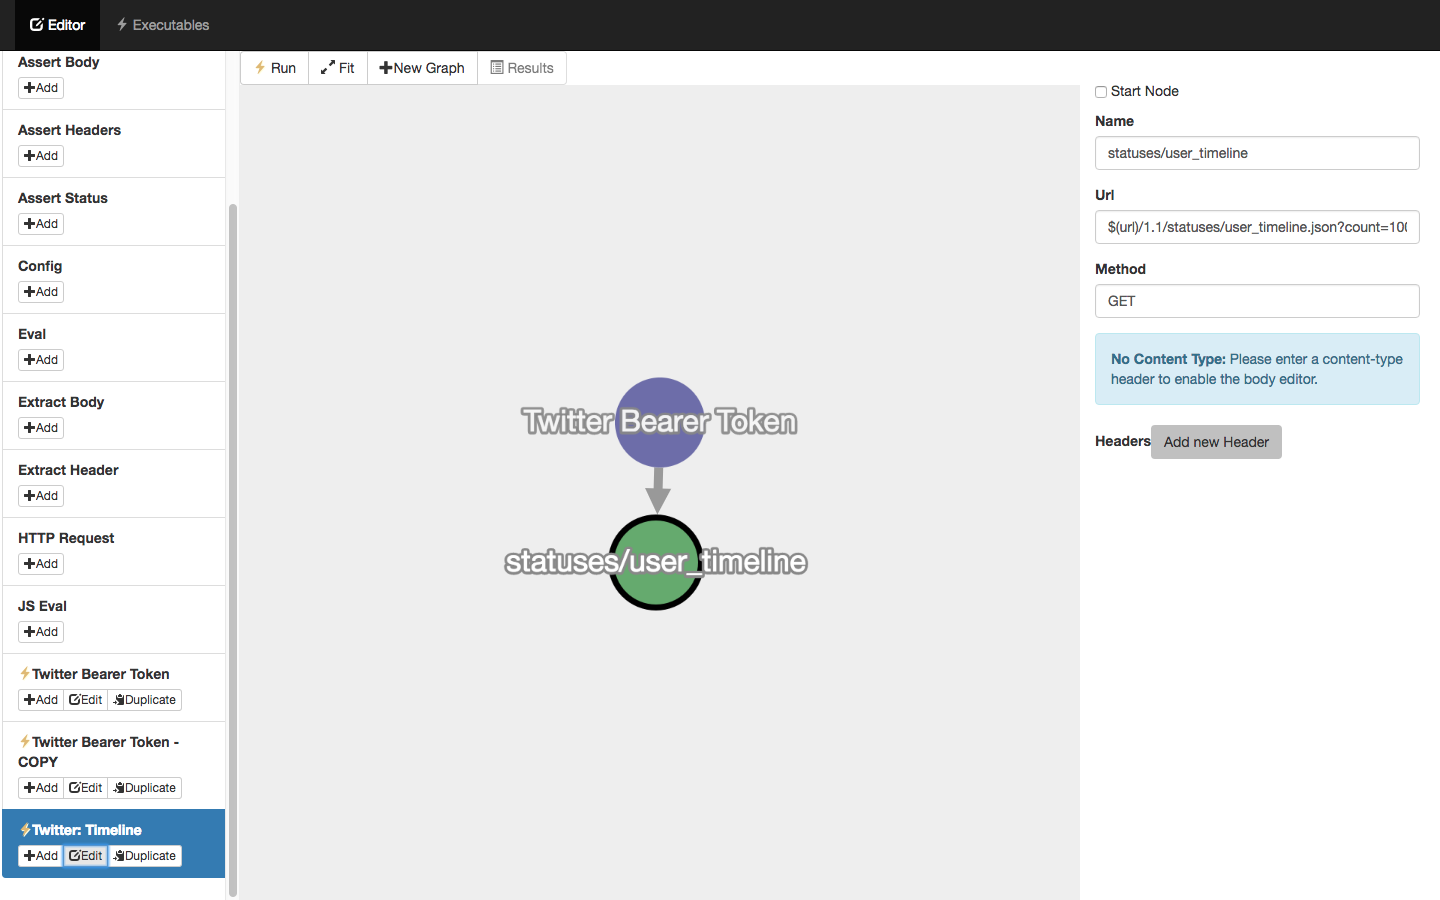
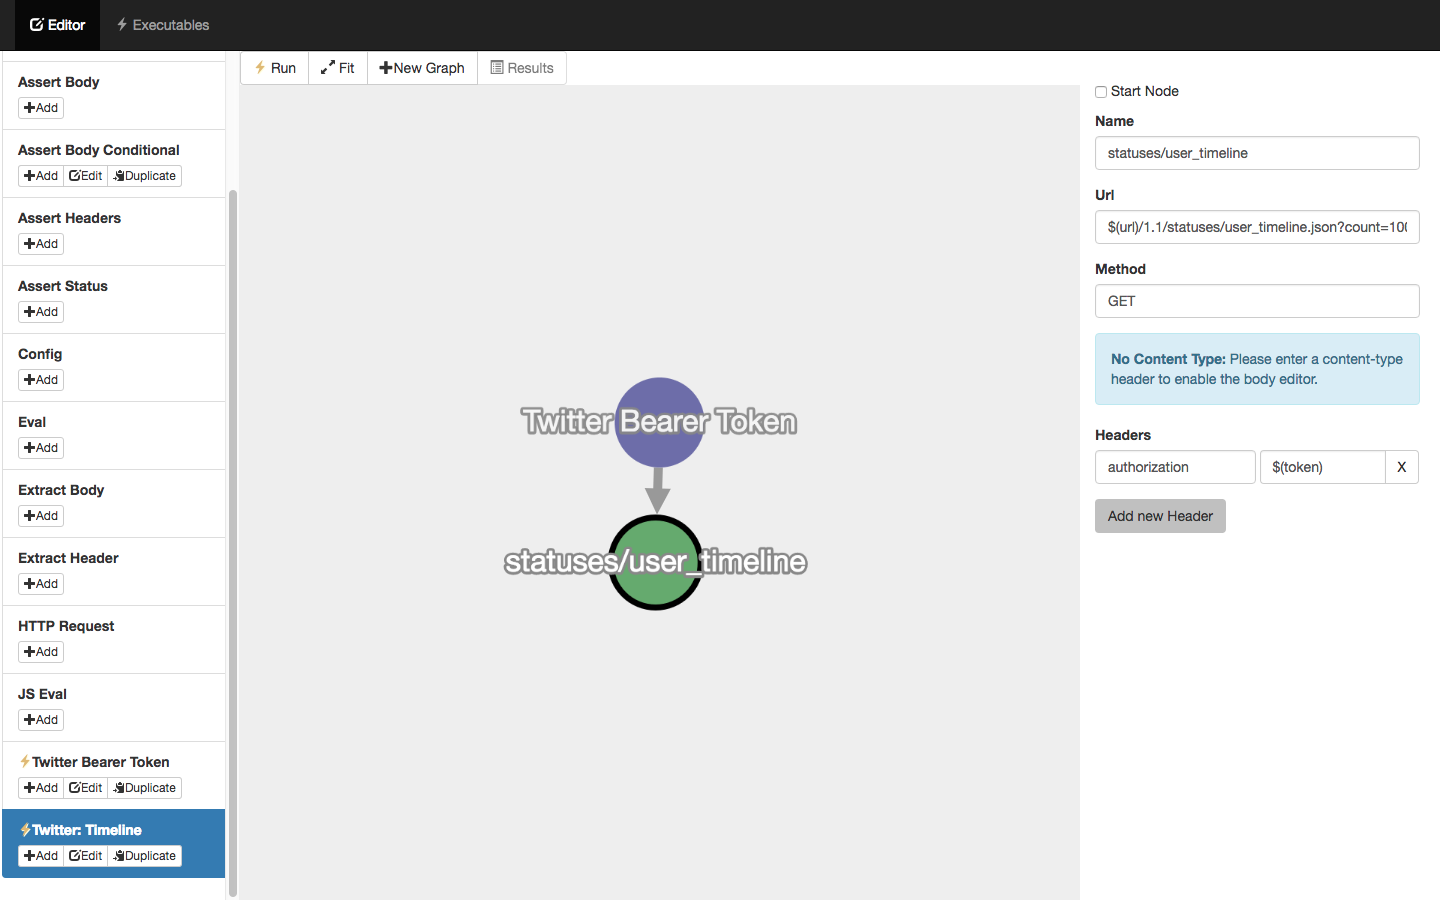
adding more docs

diff --git a/content/docs/extract-body-node.md b/content/docs/extract-body-node.md
@@ -1,0 +1,43 @@
++++
+description = "Description of the Extract Body Node"
+title = "Extract Body Node"
+date = "2017-05-21T12:24:08+01:00"
+draft = false
+weight = 80
+bref="The Extract Body node helps you to apply logic to the body of a HTTP Request/Response"
+toc = true
++++
+
+### Introduction ###
+The Extract Body node allow us to apply logic to the body of an HTTP Request/Response. This node has three parameters which are:
+
+* Name, label to assign a name for the node
+* Property Name, the variable that gets assigned the function return value
+* Function, where you define a function in the global namespace which takes the last request's body as argument and returns a value.  
+
+In the example below, we will be using the twitter example (presented on the quickstart).  
+We are going to extract the bearer token, by calling the body.access_token and assign it to a variable for later use.
+Therefore, we will add a **Extract Body node**, with the following parameters:
+
+* name: any name
+* Property Name: token, 
+* Function:
+
+        (body) =>{
+        return "Bearer" + body.access_token;
+        }
+
+{{<figure src="/img/docs/extract-token-twitter-oauth2.png" caption="Extract Token">}} 
+
+Now the token variable could be used later on the scenario. For example we create a new graph, where we will be calling the Twitter Bearer Token, that includes, the token variable. We will be using the endpoint to ask for a user timeline. Consequently, you should add a HTTP Request node, connect it with an arrow from our previous graph, and fill the parameters
+
+*   URL: $(url)/1.1/statuses/user_timeline.json?count=100&screen_name=twitterapi
+*   Method: GET
+
+And add a new header:
+
+* authorization: $(token), using the previous variable created on the Extract Body node.
+
+Now you should be able to execute the API Requests
+
+{{<figure src="/img/docs/get-user-timeline.png" caption="User Timeline">}}  

diff --git a/content/docs/assert-header-node.md b/content/docs/assert-header-node.md
@@ -1,0 +1,32 @@
++++
+description = "Description of the Assert Header Node"
+title = "Assert Header Node"
+date = "2017-05-20T14:42:08+01:00"
+draft = false
+weight = 70
+bref="The Assert Header Node evaluate the header of a HTTP Request"
+toc = true
++++
+
+### Introduction ###
+The Assert Header node allows to evaluate the header of a HTTP Request. The node consists of three (3) parameters, which are the following:
+
+* Name, the name of the node
+* Error Template, the message to be shown when the assert failed
+* Function, is the text area to define a function in the global namespace, with two parameters, *header*, the HTTP request's header, and *scope*, of the graph. E.g.:
+
+    	f = function(headers, scope) {
+    		return headers.auth_token != null;
+    	}
+
+Below is an example of implementing the node.
+
+{{<figure src="/img/docs/assert-header-node.png" caption="Assert Header Node">}} 
+
+When executing the graph and looking at the results, the assert node would evaluate the function.
+
+
+### Conditional Execution ###
+With the appropriate design, a graph could execute more than one (1) path in parallel. By exploiting the use of the Assert Header node, you could create a conditional path. For example, creating a two (2) way path, with two arrows pointing to two Assert Header node, then it means the are two paths on the graph. If on the first node you evaluate there is an authentication token, and on the second node there is not, meaning that both nodes are excluding paths. When executing the graph it means that it would follow the path depending on the request header, the figure below shows an example of the scenario. 
+
+{{<figure src="/img/docs/assert-header-conditional.png" caption="Conditional header execution">}}  

diff --git a/content/docs/assert-node.md b/content/docs/assert-node.md
@@ -1,0 +1,32 @@
++++
+description = "Description of the Assert Node"
+title = "Assert Node"
+date = "2017-05-20T14:34:08+01:00"
+draft = false
+weight = 50
+bref="The Assert Node evaluate the scope of the graph"
+toc = true
++++
+
+### Introduction ###
+The Assert node allows to evaluate the scope on a given graph. The node consists of three (3) parameters, which are the following:
+
+* Name, the name of the node
+* Error Template, the message to be shown when the assert failed
+* Function, is the text area to define an anonymous function which takes the scope as argument and returns the scope. E.g.
+
+		(fn [scope] (assoc scope :happy true))
+
+Below is an example of implementing the node.
+
+{{<figure src="/img/docs/assert-node.png" caption="Assert Node">}} 
+
+When executing the graph and looking at the results, the assert node would evaluate the function, the example below shows the result when the assert failed. 
+
+{{<figure src="/img/docs/assert-fail.png" caption="Executing a fail assert">}}  
+
+
+### Conditional Execution ###
+With the appropriate design, a graph could execute more than one (1) path in parallel. By exploiting the use of the Assert node, you could create a conditional path. For example, creating a two (2) way path, with two arrows pointing to two Assert node, then it means the are two paths on the graph. If on the first node you assign a status code to go from 200 to 299, and the second node you select to go from 300 to 399, meaning that both nodes are excluding paths. When executing the graph it means that it would follow the path depending on the response status, the figure below shows an example of the scenario. 
+
+{{<figure src="/img/docs/conditional-status.png" caption="Conditional execution">}}  

diff --git a/content/docs/assert-body-node.md b/content/docs/assert-body-node.md
@@ -1,0 +1,32 @@
++++
+description = "Description of the Assert Body Node"
+title = "Assert Body Node"
+date = "2017-05-20T14:42:08+01:00"
+draft = false
+weight = 70
+bref="The Assert Body Node evaluate the body of a HTTP Response"
+toc = true
++++
+
+### Introduction ###
+The Assert Body node allows to evaluate the body of a HTTP Response. The node consists of three (3) parameters, which are the following:
+
+* Name, the name of the node
+* Error Template, the message to be shown when the assert failed
+* Function, is the text area to define a function in the global namespace, with two parameters, *body*, the HTTP response body, and *scope*, of the graph. E.g.:
+
+    	f = function(body, scope) {
+    		return body.user_id != scope.user_id;
+    	}
+
+Below is an example of implementing the node.
+
+{{<figure src="/img/docs/assert-body-node.png" caption="Assert Body Node">}} 
+
+When executing the graph and looking at the results, the assert node would evaluate the function.
+
+
+### Conditional Execution ###
+With the appropriate design, a graph could execute more than one (1) path in parallel. By exploiting the use of the Assert Body node, you could create a conditional path. For example, creating a two (2) way path, with two arrows pointing to two Assert node, then it means the are two paths on the graph. If on the first node you assign a status code to go from 200 to 299, and the second node you select to go from 300 to 399, meaning that both nodes are excluding paths. When executing the graph it means that it would follow the path depending on the response status, the figure below shows an example of the scenario. 
+
+{{<figure src="/img/docs/assert-body-conditional.png" caption="Conditional body execution">}}  

diff --git a/content/docs/assert-status.md b/content/docs/assert-status.md
@@ -3,7 +3,7 @@ description = "Description of the Assert Status Node"
 title = "Assert Status Node"
 date = "2017-05-19T10:39:08+01:00"
 draft = false
-weight = 50
+weight = 60
 bref="The Assert Status Node evaluate the status of a HTTP Response"
 toc = true
 +++
@@ -11,15 +11,15 @@ toc = true
 ### Introduction ###
 The Assert Status node allows to evaluate the status code from a HTTP Response message. The node consists of three (3) parameters, which are the following:
 
-*Name, the name of the node
-*Status From, the response status code minimum accepted value
-*Status To, the response status code maximum accepted value
+* Name, the name of the node
+* Status From, the response status code minimum accepted value
+* Status To, the response status code maximum accepted value
 
 Below is an example of implementing the node.
 
 {{<figure src="/img/docs/assert-status-twitter-oauth2.png" caption="Assert Status">}} 
 
-When executing the graph and looking at the results, the assert node would evaluate if the response status code was between does values, in the example shows the result when the assert failed. 
+When executing the graph and looking at the results, the assert node would evaluate if the response status code was between does values, the example below shows the result when the assert failed. 
 
 {{<figure src="/img/docs/assert-fail.png" caption="Executing a fail assert">}}  
 

diff --git a/content/docs/eval-node.md b/content/docs/eval-node.md
@@ -1,0 +1,26 @@
++++
+description = "Description of the Eval Node"
+title = "Eval Node"
+date = "2017-05-18T10:42:08+01:00"
+draft = false
+weight = 31
+bref="The Eval node is useful to add logic for the scenario"
+toc = true
++++
+
+### Introduction ###
+The Eval node is helpful to apply logic to the scenario. This node has two parameters which are:
+
+* name, label to assign a name for the node
+* function, where you define a function in the global namespace, which takes a scope as argument and returns a scope.  
+
+In the example below, we will be using the twitter example (presented on the quickstart).  
+We will create an auth variable, and this variable will concatenate the Key and Secret variable that were created on the scope, with a ":" in the middle. As shown on the following code:  
+
+    fn [scope] (assoc scope :happy true)
+
+{{<figure src="/img/docs/js-eval-node.png" caption="JS Eval node">}} 
+
+After adding the auth variable, we could use it later on the graph. Following the example, we will use the auth as a header on an HTTP Request node. We will call the variable with this syntax $(auth) on the authorization header
+
+{{<figure src="/img/docs/http-request-twitter oauth2.png" caption="HTTP Request node">}} 

diff --git a/content/docs/extract-header-node.md b/content/docs/extract-header-node.md
@@ -1,0 +1,18 @@
++++
+description = "Description of the Extract Header Node"
+title = "Extract Header Node"
+date = "2017-05-21T16:27:08+01:00"
+draft = false
+weight = 80
+bref="The Extract Body node helps you to apply logic to the body of a HTTP Request/Response"
+toc = true
++++
+
+### Introduction ###
+The Extract Header node allow us to apply logic to the header of an HTTP Request/Response. This node has three parameters which are:
+
+* Name, label to assign a name for the node
+* Property Name, the variable that gets assigned the function return value
+* Header Name, the header from which the value will be taken.  
+
+In the example below, we will be ... 

diff --git a/content/docs/Quickstart.md b/content/docs/Quickstart.md
@@ -93,6 +93,10 @@ We will be using the endpoint to ask for a user timeline. Consequently, you shou
 *   URL: $(url)/1.1/statuses/user_timeline.json?count=100&screen_name=twitterapi
 *   Method: GET
 
+And add a new header:
+
+* authorization: $(token), using the previous variable created on the Extract Body node.
+
 Now you should be able to execute the API Requests
 
 {{<figure src="/img/docs/get-user-timeline.png" caption="User Timeline">}} 
